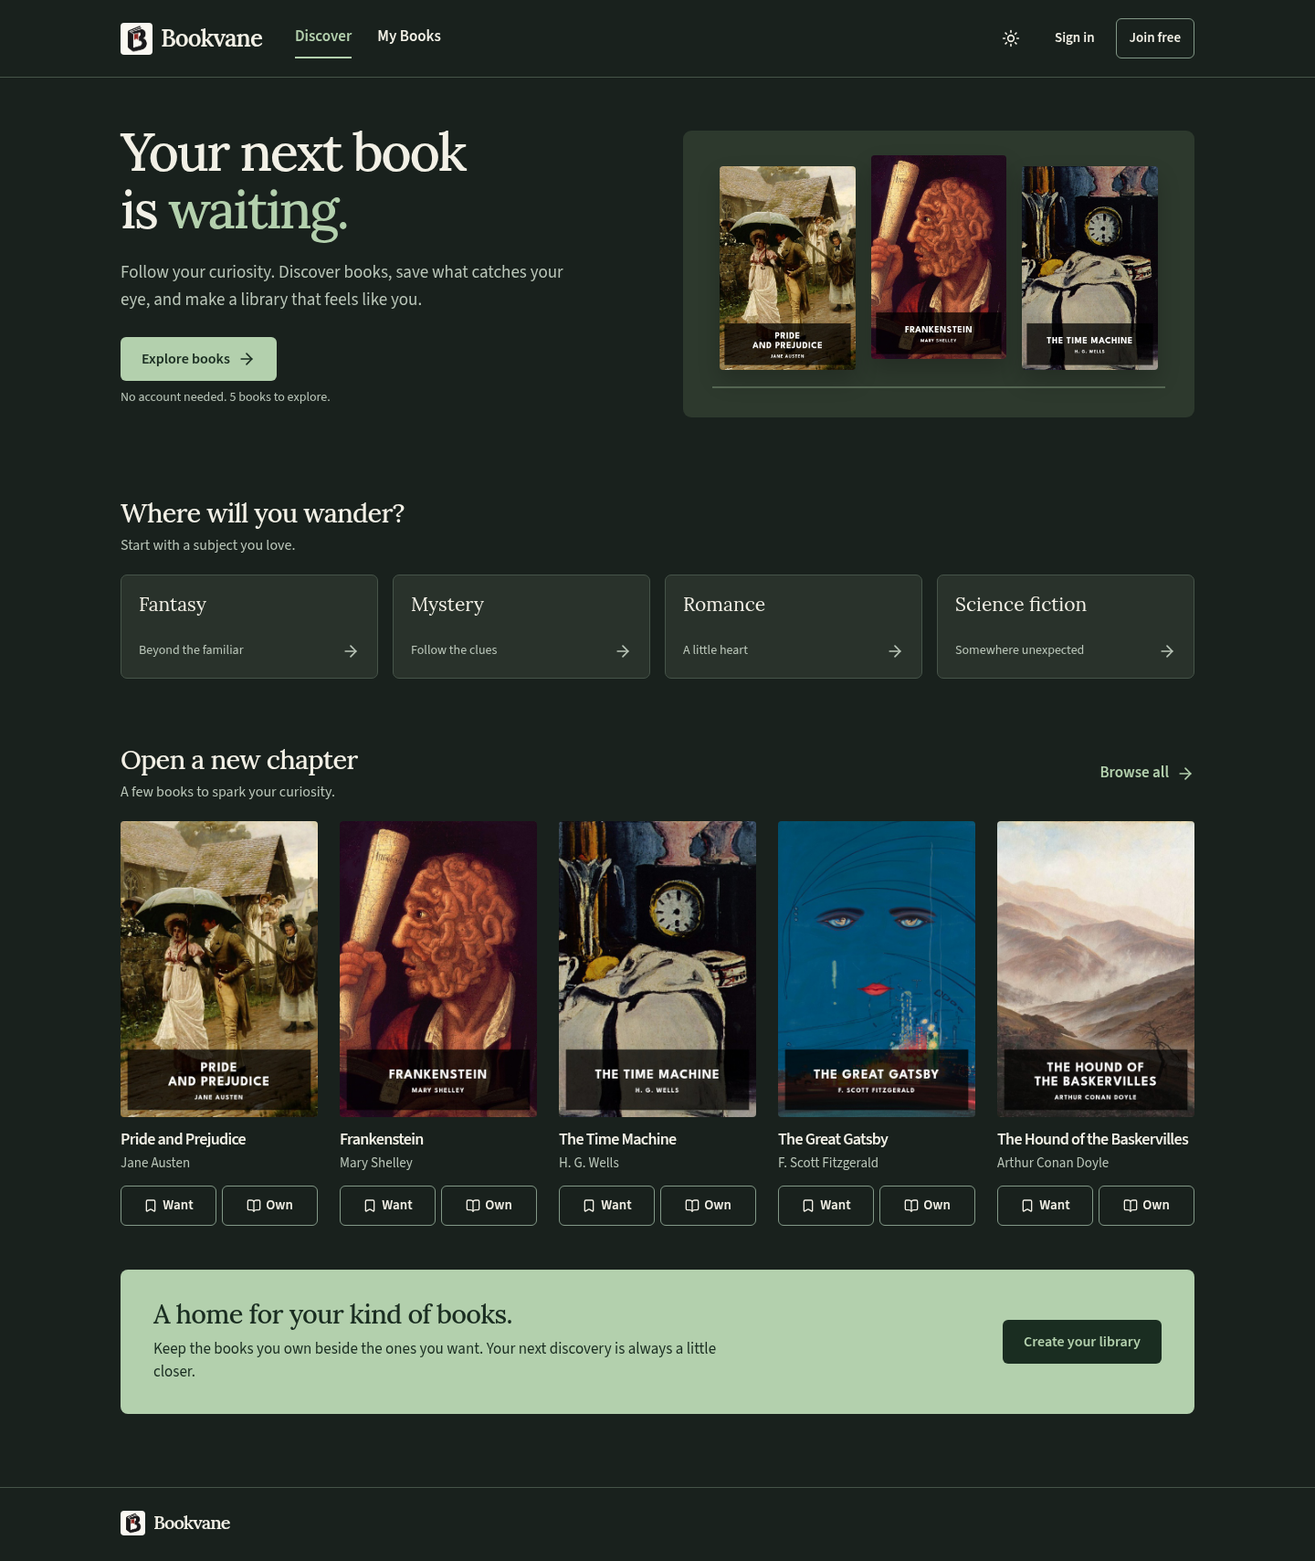
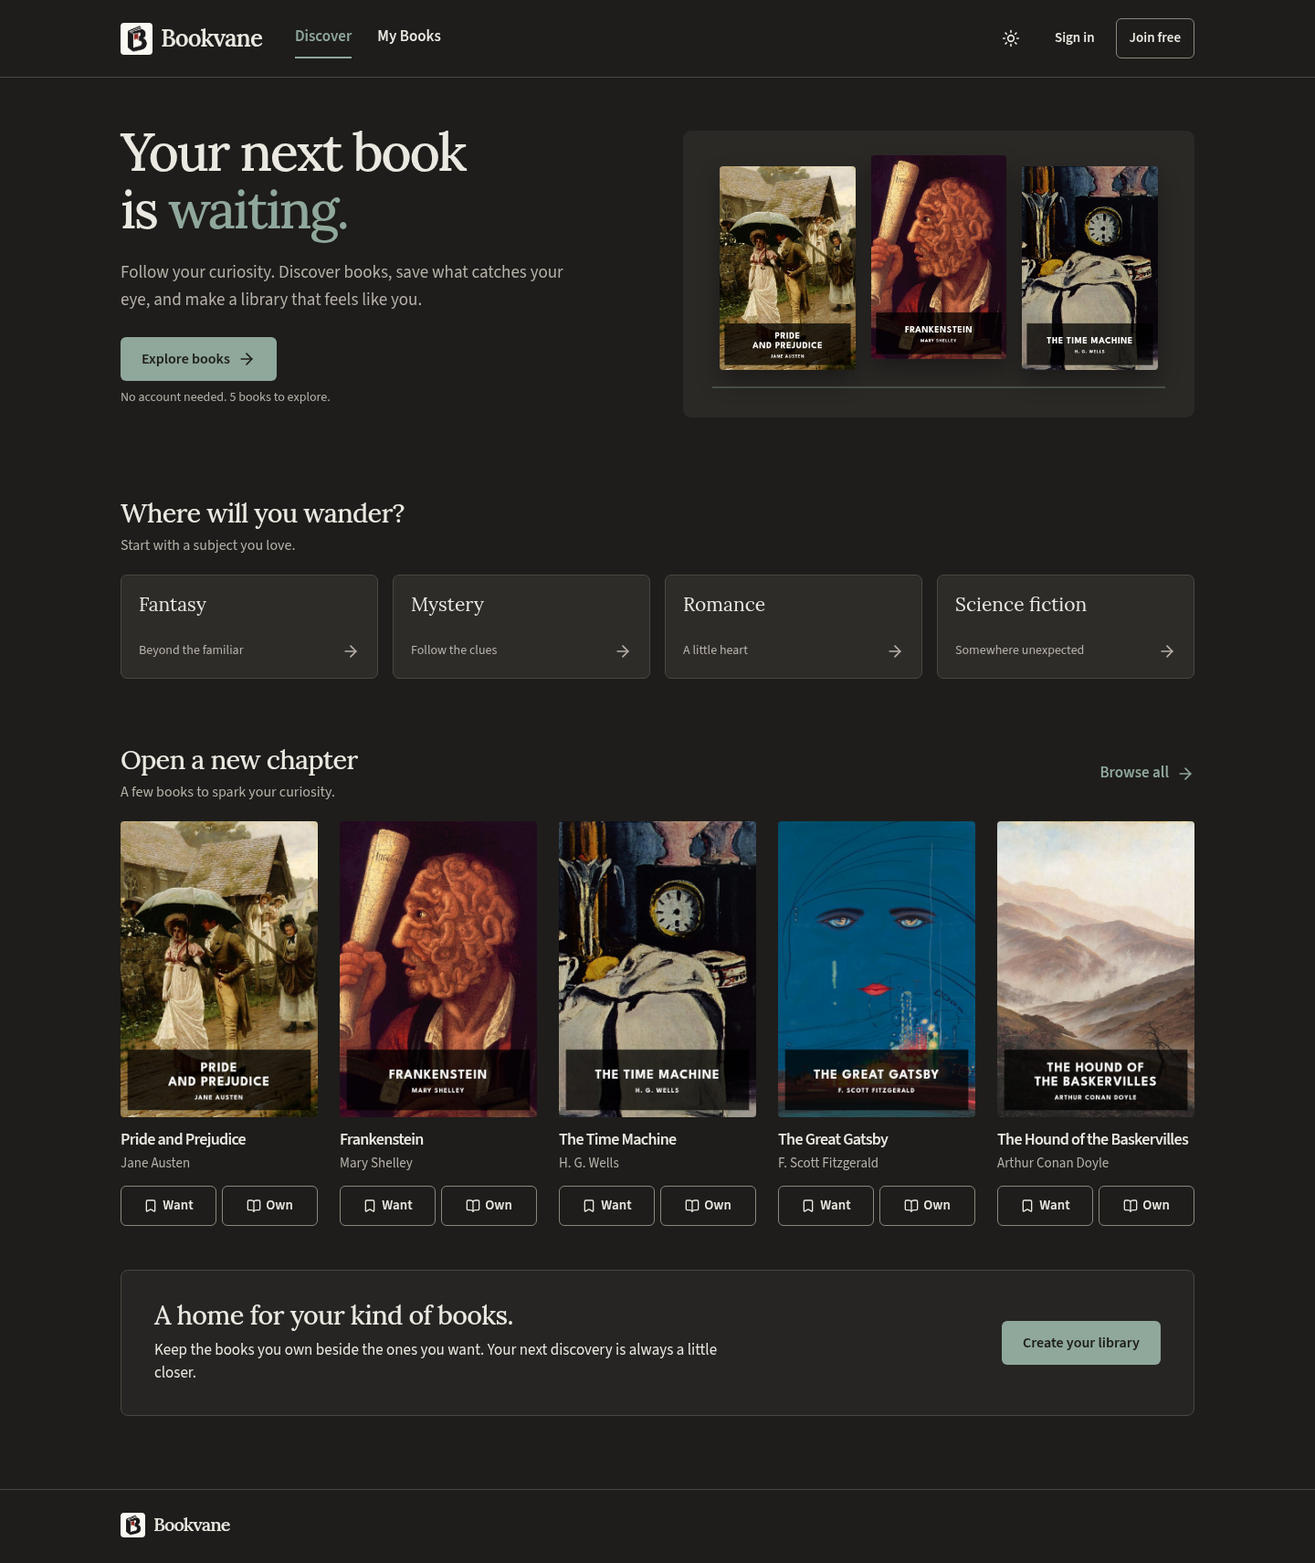
Apply warm charcoal dark theme with sage accents

diff --git a/frontend/src/components/ui-v2/tests/reader-flows.spec.js b/frontend/src/components/ui-v2/tests/reader-flows.spec.js
@@ -71,6 +71,59 @@ const test = base.extend({
 async function signIn(page) { await page.getByLabel("Email address", { exact: true }).fill("reader@example.com"); await page.getByLabel("Password", { exact: true }).fill("valid-password"); await page.getByRole("button", { name: "Sign in", exact: true }).click(); }
 const mutations = (app) => app.requests.filter((request) => request.path.endsWith("/status"));
 
+test("charcoal dark surfaces keep sage actions, form boundaries and focus readable", async ({ page, app }) => {
+  app.authenticated = true;
+  app.saved = [{ id: 1, book_id: 1, status: "want", book: books[0] }];
+  await page.addInitScript(() => localStorage.setItem("bookvane-theme", "dark"));
+  async function checkContrast(selector, property = "color", minimum = 4.5) {
+    const pairs = await page.locator(selector).evaluateAll((elements, property) => {
+      const canvas = document.createElement("canvas"), context = canvas.getContext("2d");
+      const luminance = (color) => {
+        context.clearRect(0, 0, 1, 1); context.fillStyle = color; context.fillRect(0, 0, 1, 1);
+        const rgb = [...context.getImageData(0, 0, 1, 1).data].slice(0, 3).map((v) => v / 255).map((v) => v <= 0.04045 ? v / 12.92 : ((v + 0.055) / 1.055) ** 2.4);
+        return rgb[0] * 0.2126 + rgb[1] * 0.7152 + rgb[2] * 0.0722;
+      };
+      return elements.filter((el) => el.getClientRects().length && !el.disabled).map((el) => {
+        let surface = property === "outlineColor" ? el.parentElement : el;
+        while (surface && getComputedStyle(surface).backgroundColor === "rgba(0, 0, 0, 0)") surface = surface.parentElement;
+        const foreground = luminance(getComputedStyle(el)[property]), background = luminance(getComputedStyle(surface).backgroundColor);
+        return { label: el.textContent || el.id, ratio: (Math.max(foreground, background) + 0.05) / (Math.min(foreground, background) + 0.05) };
+      });
+    }, property);
+    expect(pairs.length, selector).toBeGreaterThan(0);
+    for (const pair of pairs) expect(pair.ratio, `${property}: ${pair.label}`).toBeGreaterThanOrEqual(minimum);
+  }
+  await page.goto("/"); await expect(page.locator(".bv-book-card")).toHaveCount(5);
+  await expect(page.locator(".bv-root")).toHaveCSS("background-color", "rgb(30, 29, 27)");
+  await expect(page.locator(".bv-root")).toHaveCSS("color", "rgb(235, 232, 225)");
+  await expect(page.locator(".bv-library-banner")).toHaveCSS("background-color", "rgb(38, 37, 35)");
+  await checkContrast(".bv-lead, .bv-help, .bv-genre-card, .bv-genre-card > span:last-child, .bv-button, .bv-text-link, .bv-library-banner p");
+  const explore = page.getByRole("link", { name: "Explore books", exact: true });
+  await expect(explore).toHaveCSS("background-color", "rgb(143, 168, 155)");
+  await expect(explore).toHaveCSS("color", "rgb(30, 29, 27)");
+  await explore.hover(); await checkContrast(".bv-hero-actions .bv-button");
+  await page.keyboard.press("Tab"); await explore.focus();
+  await expect(explore).toHaveCSS("outline-color", "rgb(217, 130, 108)");
+  await checkContrast(".bv-hero-actions .bv-button", "outlineColor", 3);
+  await page.goto("/browse"); await expect(page.locator(".bv-book-card")).toHaveCount(5);
+  await page.getByRole("button", { name: "Filters", exact: true }).click();
+  await expect(page.getByRole("dialog")).toHaveCSS("background-color", "rgb(38, 37, 35)");
+  await checkContrast(".bv-dialog p, .bv-dialog .bv-button, .bv-check-tile, .bv-dialog input:not([type=checkbox])");
+  await checkContrast(".bv-check-tile, .bv-dialog input:not([type=checkbox])", "borderTopColor", 3);
+  await page.keyboard.press("Escape");
+  app.authenticated = false;
+  await page.goto("/login"); await expect(page.getByLabel("Email address", { exact: true })).toBeVisible();
+  await checkContrast(".bv-field input, .bv-field small, .bv-auth-card .bv-button, .bv-auth-switch");
+  await checkContrast(".bv-field input", "borderTopColor", 3);
+  app.authenticated = true;
+  await page.goto("/book/1"); await expect(page.getByRole("button", { name: "Remove Pride and Prejudice from Want" })).toBeEnabled();
+  app.mutationFails = true; await page.getByRole("button", { name: "Add Pride and Prejudice to Own" }).click();
+  await expect(page.getByRole("alert")).toBeVisible(); await checkContrast(".bv-field-error, .bv-button--saved, .bv-help");
+  await page.goto("/account"); await page.getByRole("button", { name: "Switch theme" }).click();
+  await expect(page.locator(".bv-root")).toHaveCSS("background-color", "rgb(250, 248, 242)");
+  await expect(page.locator(".bv-root")).toHaveCSS("color", "rgb(32, 46, 40)");
+});
+
 test("anonymous save survives registration and resumes exactly once", async ({ page, app }) => {
   await page.goto("/browse"); await page.getByRole("button", { name: "Add The Time Machine to Want", exact: true }).click();
   await expect(page.getByRole("dialog")).toBeVisible(); await expect(page.getByRole("dialog")).toContainText("The Time Machine");

diff --git a/frontend/src/styles/ui-v2/bookvane.css b/frontend/src/styles/ui-v2/bookvane.css
@@ -16,11 +16,12 @@ body:has(.bv-root) { margin: 0; }
   display: flex; flex-direction: column; overflow-wrap: break-word;
 }
 .bv-root[data-theme="dark"] {
-  --bv-paper: #19211d; --bv-panel: #222c25; --bv-wash: #29322b;
-  --bv-ink: #f2f0e6; --bv-muted: #bac6b9; --bv-line: #465449;
-  --bv-green: #b3d0ad; --bv-on-green: #1a2d21; --bv-soft-green: #303f31;
-  --bv-rust: #f0ae91; --bv-hero: #2d392d; --bv-control: #829887;
-  --bv-danger: #ffb7b2; --bv-shadow: 0 12px 24px #0003;
+  color-scheme: dark;
+  --bv-paper: #1e1d1b; --bv-panel: #262523; --bv-wash: #2e2c29;
+  --bv-ink: #ebe8e1; --bv-muted: #b6b1a9; --bv-line: #4b4741;
+  --bv-green: #8fa89b; --bv-on-green: #1e1d1b; --bv-soft-green: #30332f;
+  --bv-rust: #d9826c; --bv-hero: #2b2926; --bv-control: #8c867d;
+  --bv-danger: #f0a39e; --bv-shadow: 0 12px 24px #0005;
 }
 .bv-root *, .bv-root *::before, .bv-root *::after { box-sizing: border-box; }
 .bv-root main { flex: 1; min-width: 0; }
@@ -113,6 +114,9 @@ body:has(.bv-root) { margin: 0; }
 .bv-root .bv-genre-card > span:first-child { font: 21px/1.2 var(--bv-display); }
 .bv-root .bv-genre-card > span:last-child { display: flex; align-items: center; justify-content: space-between; gap: 8px; color: var(--bv-muted); font-size: 14px; }
 .bv-root .bv-library-banner { background: var(--bv-green); color: var(--bv-on-green); border-radius: 8px; padding: 32px 36px; display: flex; justify-content: space-between; align-items: center; gap: 24px; margin: 12px 0 40px; }
+/* Large dark surfaces stay charcoal; sage is reserved for useful actions. */
+.bv-root[data-theme="dark"] .bv-library-banner { background: var(--bv-panel); color: var(--bv-ink); border: 1px solid var(--bv-line); }
+.bv-root[data-theme="dark"] .bv-library-banner .bv-button { background: var(--bv-green); color: var(--bv-on-green); }
 .bv-root .bv-library-banner h2 { color: inherit; margin-bottom: 8px; }
 .bv-root .bv-library-banner p { max-width: 660px; margin: 0; }
 .bv-root .bv-library-banner .bv-button { background: var(--bv-on-green); color: var(--bv-green); flex-shrink: 0; }
@@ -239,6 +243,7 @@ body:has(.bv-root) { margin: 0; }
 
 .bv-root .bv-dialog { background: var(--bv-panel); color: var(--bv-ink); border: 1px solid var(--bv-line); border-radius: 10px; width: min(620px, calc(100% - 40px)); max-height: calc(100dvh - 48px); padding: 28px; overscroll-behavior: contain; margin: auto; box-shadow: var(--bv-shadow); }
 .bv-root .bv-dialog::backdrop { background: #152a20a8; }
+.bv-root[data-theme="dark"] .bv-dialog::backdrop { background: #10100ecc; }
 .bv-root .bv-dialog[open] { animation: bv-dialog-in 180ms ease-out; }
 @keyframes bv-dialog-in { from { opacity: 0; transform: translateY(6px); } to { opacity: 1; transform: translateY(0); } }
 .bv-root .bv-dialog-heading { display: flex; align-items: start; justify-content: space-between; gap: 20px; margin-bottom: 16px; }

diff --git a/docs/ui-v2/implementation/ui-refresh-review.md b/docs/ui-v2/implementation/ui-refresh-review.md
@@ -8,7 +8,7 @@ The implemented refresh is commit **d6748c0**, following the browser-design prot
 
 For this review, I checked the current GitHub versions of **primitives.jsx**, **DiscoveryPages.jsx**, **BookvaneApp.jsx**, and **main.jsx** on **v2-codex**, alongside the local implementation. The UI findings below describe the inspected code. I cannot inspect the owner's VS Code working copy or determine whether it contains additional local changes.
 
-**Current status:** the redundancy cleanup described below is implemented on **codex-ui**. The original review was documentation-only in **8bca00b**; this follow-up changes the UI after the owner authorized removals. All 22 current UI browser checks passed together, and the 24 review captures were regenerated. The charcoal theme is agreed but not implemented. The logo has not been redesigned.
+**Current status:** the redundancy cleanup described below is implemented on **codex-ui**. The original review was documentation-only in **8bca00b**; this follow-up changes the UI after the owner authorized removals. The cleanup passed all 22 UI browser checks together and regenerated the 24 review captures. The charcoal pass retains those 22 passing checks and adds a passing contrast/theme check, for 23 distinct passing checks; the gallery now shows the charcoal dark captures. The agreed charcoal theme is now implemented, following the cleanup in **ccb180e**. Light mode remains unchanged. The logo has not been redesigned.
 
 ### Completed simplification pass
 
@@ -152,7 +152,7 @@ I added reusable honest empty/error states, stable loading skeletons, inline sav
 
 The UI includes labels, visible focus, a skip link, route-heading focus, active shelf states, keyboard shelf tabs and generally 44–48px action targets. Dialogs use native modal semantics plus focus cycling, Escape, trigger restoration and scroll locking. Mobile focus handling accounts for persistent navigation. Phone navigation hides while text fields are focused; selecting a checkbox does not trigger that behavior.
 
-These are implemented accessibility provisions, not a complete accessibility certification. Contrast checks covered selected primary dark-theme text, not every possible color pairing in every state.
+These are implemented accessibility provisions, not a complete accessibility certification. Contrast checks cover primary and muted text, enabled primary/saved actions, hover, form/filter boundaries, errors and focus in representative dark views, not every possible color pairing in every state.
 
 ### Motion
 
@@ -160,11 +160,11 @@ Controls use 140ms color transitions. Dialogs use a 180ms fade with a 6px entran
 
 The motion acknowledges interaction and opening a dialog without competing with reading.
 
-## Agreed palette and logo follow-up
+## Implemented charcoal palette and logo follow-up
 
 **Light mode stays as implemented.** The Gemini reference is useful for visual direction, but does not replace the current light-mode hex values automatically.
 
-| Dark-theme role | Agreed direction |
+| Dark-theme role | Implemented direction |
 | --- | --- |
 | Page | Warm charcoal **#1E1D1B** |
 | Panels | Slightly lighter charcoal **#262523** |
@@ -172,7 +172,11 @@ The motion acknowledges interaction and opening a dialog without competing with 
 | Actions | Muted sage **#8FA89B** |
 | Restrained accents | Softer rust **#D9826C** |
 
-Charcoal should dominate the large surfaces. Sage belongs in purposeful actions, links and selected states. Filled sage buttons need dark text. Secondary text, form boundaries, focus rings, errors, hover/disabled colors, modal backdrops and selected-shelf surfaces still need to be resolved and checked together. Changing five tokens alone is not a fully verified theme.
+Charcoal now dominates the page, panels, cover surrounds and landing library banner. Sage belongs in purposeful actions, links and selected states; filled sage buttons use dark charcoal text. Light-mode styles remain unchanged.
+
+Supporting dark colors are **#B6B1A9** for secondary text, **#8C867D** for control boundaries, **#4B4741** for decorative separators, **#2E2C29** for neutral hover/wash surfaces, **#2B2926** for cover surrounds, **#30332F** for subtly sage selected surfaces and **#F0A39E** for errors. Modal backdrops are neutral **#10100ECC**. Native controls use **color-scheme: dark**. Existing disabled opacity and control transitions remain.
+
+The ivory/page pairing has approximately **13.8:1** contrast; sage/dark button text has **6.6:1**. Decorative separators are deliberately quieter than interactive boundaries. Browser checks cover rendered text, muted copy, saved/primary buttons, hover, input and filter-tile boundaries, error text and keyboard focus. This is targeted contrast verification, not a complete accessibility certification.
 
 The logo's visual weight and color relationship also need review. The current dark-mode implementation puts the existing mark on a pale square; it is not a dedicated dark-mode logo. The recommendation is to explore refining the recognizable book/B mark and its theme treatment after the palette settles. No replacement logo has been approved or generated as part of this review.
 
@@ -207,18 +211,18 @@ No new analytics, notifications, streaks, reading-progress tracking, reviews, re
 
 ## Verification completed
 
-- All **22 current Chromium UI checks passed together** after the cleanup. The initial implementation had 20 distinct passing checks; this pass adds two failure/recovery regressions and asserts a single visible post-login save alert.
+- **23 distinct current Chromium UI checks passed** for the charcoal update: all 22 existing checks passed together, then the added charcoal contrast check passed after correcting its login fixture to be signed out. No application fix was needed for that fixture error. The earlier cleanup added two failure/recovery regressions and asserts a single visible post-login save alert.
 - Twenty-three existing V2 regression checks passed against the unchanged default app. This verifies those original flows remained intact; it is separate from running them against the redesigned entry.
 - Responsive routes were checked at 320, 390, 768 and 1440px with long book titles; horizontal overflow was corrected and then passed.
 - Light/dark persistence, reduced motion, keyboard dialogs, missing covers, failed requests, preference preservation, safe returns, recovery links and authentication/save continuity were exercised.
 - Both the isolated UI and original frontend production builds passed. New UI lint was clean. Full frontend lint exited successfully with eleven existing warnings in untouched source.
-- Twenty-four implemented-screen captures cover six views, desktop/mobile and both themes. All 24 captures were regenerated after the cleanup, with desktop/mobile landing, registration and detail images inspected. The earlier refresh also corrected legacy heading-color interference in dark mode.
+- Twenty-four implemented-screen captures cover six views, desktop/mobile and both themes. All 24 captures were regenerated after the cleanup. The 12 dark captures were refreshed for charcoal, with desktop landing and mobile preferences inspected; light captures are retained from the unchanged light interface. The earlier refresh also corrected legacy heading-color interference in dark mode.
 
-Tests intercepted API operations and created no real accounts or shelf records. Live email delivery, real hosted cookie/CORS behavior, the owner's current local setup, Safari/iOS devices and a native mobile package were not independently verified. The refresh is a responsive web interface. The 22 UI checks and regenerated captures verify the current cleanup. The 23 default-entry regression results are from the initial implementation, whose default entry remains untouched.
+Tests intercepted API operations and created no real accounts or shelf records. Live email delivery, real hosted cookie/CORS behavior, the owner's current local setup, Safari/iOS devices and a native mobile package were not independently verified. The refresh is a responsive web interface. The 23 distinct UI checks and updated dark captures verify the current theme and cleanup. The 23 default-entry regression results are from the initial implementation, whose default entry remains untouched.
 
 ## Recommended next pass
 
-1. Apply and verify the agreed charcoal dark theme across the whole surface system; leave light mode intact.
-2. Revisit the logo against the settled themes, then test the core journey with prospective readers on desktop and phones.
+1. Revisit the logo against the settled themes; the current mark has not been redesigned.
+2. Test the core journey with prospective readers on desktop and phones.
 
 The remaining typography, real-cover cards, search context, simple shelves, optional preferences and reliable save flow form a useful foundation. Refinement should make that foundation quieter and more personal without expanding the feature set.

diff --git a/docs/ui-v2/implementation/README.md b/docs/ui-v2/implementation/README.md
@@ -2,7 +2,7 @@
 
 The approved redesign is implemented as `frontend/src/components/ui-v2/BookvaneApp.jsx` on `codex-ui`, based on the audited V2 contracts at `39ca688`. It uses the existing auth, shared library, catalogue, preferences, recovery and share APIs. New source files are limited to the agreed UI directories; no existing application source, package, lockfile, backend or deployment configuration was edited.
 
-The follow-up cleanup removes repeated prompts and promotional sections, visible ISBN metadata, duplicate errors/retries, redundant auth links and single-page pagination. See the [complete change record and rationale](ui-refresh-review.md). The agreed charcoal dark theme and logo review remain pending; this pass preserves the current theme colors.
+The follow-up cleanup removes repeated prompts and promotional sections, visible ISBN metadata, duplicate errors/retries, redundant auth links and single-page pagination. See the [complete change record and rationale](ui-refresh-review.md). The agreed charcoal dark theme is now implemented. Light mode is unchanged; the logo review remains pending.
 
 ## Review the actual implementation
 
@@ -45,18 +45,18 @@ This reserved owner edit has **not been made by this UI work**. The branch has b
 
 ## Design and libraries
 
-Existing React 19, React Router and Lucide remain the application libraries. Scoped CSS implements the ivory/forest/rust palette and responsive layout. Lora and Source Sans 3 are self-hosted as WOFF2 with their OFL license files. Existing Bookvane logo and real API covers are reused.
+Existing React 19, React Router and Lucide remain the application libraries. Scoped CSS implements the existing ivory/forest/rust light palette and warm charcoal/ivory/sage/rust dark palette, with responsive layout. Dark backgrounds and large panels are neutral; sage emphasizes actions and saved states. Native controls follow the dark color scheme. Lora and Source Sans 3 are self-hosted as WOFF2 with their OFL license files. Existing Bookvane logo and real API covers are reused.
 
 The planned Radix dialog dependency was replaced by native `<dialog>` to keep the shared dependency files untouched. It supplies modal semantics and background inertness; the wrapper adds focus cycling, Escape, scroll locking and trigger restoration. Motion is limited to 140ms control color transitions and a 180ms dialog fade with a 6px entrance. Reduced-motion disables both. No animation framework or feature/tracking additions were introduced.
 
 ## Verification
 
-- **22 current Chromium browser checks passed together**, including save-after-auth, one-time resumption/retry, failed writes and reads, filters/history/pagination, preference preservation, recovery links, keyboard dialogs, cover fallbacks, safe return URLs, reduced motion, theme persistence and primary dark-theme text contrast.
+- **23 distinct current Chromium browser checks passed** (22 existing checks together, plus the new charcoal-theme check), including save-after-auth, one-time resumption/retry, failed writes and reads, filters/history/pagination, preference preservation, recovery links, keyboard dialogs, cover fallbacks, safe return URLs, reduced motion, theme persistence and primary dark-theme text contrast. The charcoal check verifies rendered muted/body text, filled and saved actions, hover, keyboard focus, form/filter boundaries, errors and switching back to unchanged light colors.
 - Routes were checked at **320, 390, 768 and 1440px** with deliberately long titles; no horizontal page overflow occurred.
 - **23 existing V2 regression checks passed** against the unchanged default application during the initial implementation; those source files remain untouched.
 - Isolated redesign and original frontend production builds passed.
 - New UI source lint is clean. Full frontend lint exits successfully with 11 existing warnings in untouched source files.
-- All 24 screenshots were regenerated after the cleanup; desktop/mobile landing, registration and detail captures were inspected. The initial refresh also corrected legacy global heading colors in dark mode.
+- The gallery retains all 24 screenshots; its 12 dark-theme captures were refreshed for charcoal. After the cleanup, all 24 were regenerated; desktop/mobile landing, registration and detail captures were inspected. The initial refresh also corrected legacy global heading colors in dark mode.
 
 Browser tests intercept API requests and create no real accounts or library records. Live cookie/CORS behavior, email delivery and Safari/iOS device behavior were not independently verified here. This is a responsive web implementation, not a packaged native mobile app.
 
